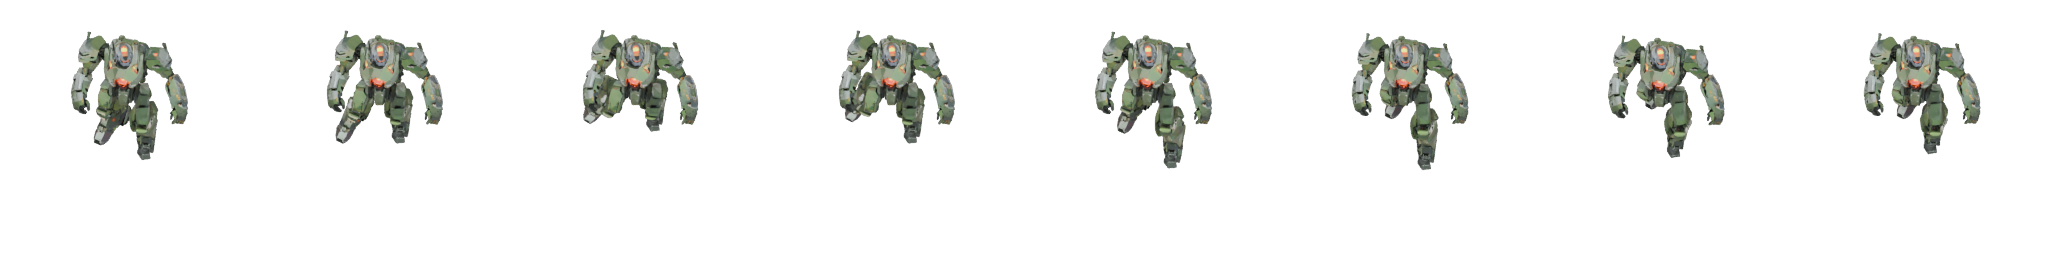
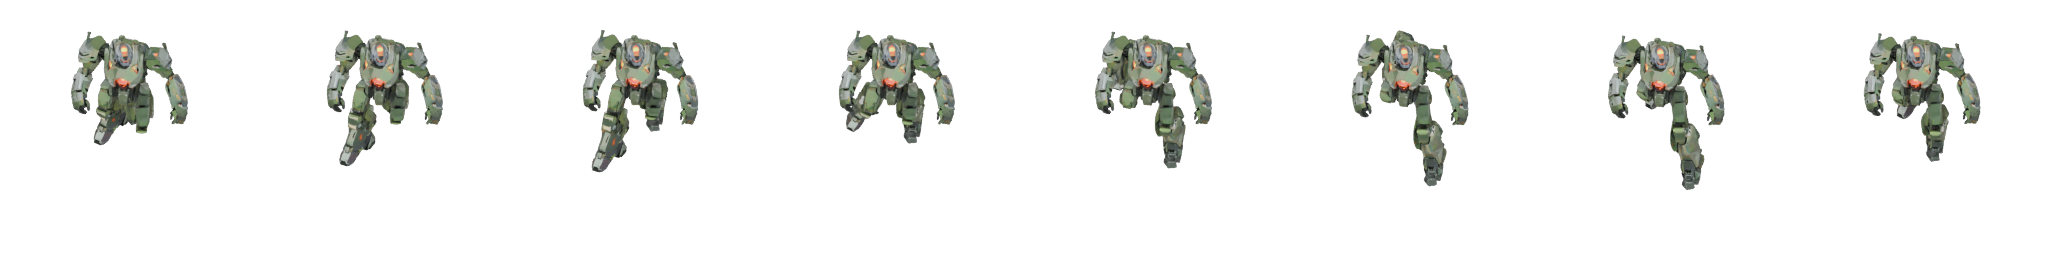
fix: genou de Titan dephase — le pied ne se levait jamais en avancant
Signale par le patron apres le premier correctif (hanche symetrique,
insuffisant) : « on a l'impression qu'il vole ». Cause reelle : la
flexion du genou (l_knee = -sin(p-0.25)) culminait au DECOLLAGE (hanche
au maximum arriere) et retombait a 0 (jambe raide) pendant TOUT le
balancement avant — or la cheville contre-tourne pour garder le pied a
plat, donc une jambe raide qui pivote seulement a la hanche garde son
pied a hauteur quasi constante : aucun appui visible, le pied glisse
plutot que de se lever puis se poser. D'ou l'impression de vol, meme
apres avoir corrige l'asymetrie du bind pose.

cos(p) culmine a p=0, exactement quand l_pitch (=sin(p)) passe par zero
EN AUGMENTANT — le milieu du balancement avant, pied a l'aplomb du
corps, moment ou il doit etre le plus haut. Meme correctif applique a
pose_run (meme defaut de phase). 8 planches walk+run re-bakees ; idle/
attack/hit/die/melee ne touchent pas le genou, non affectees.

diff --git a/tools/build_titan_anims.py b/tools/build_titan_anims.py
@@ -183,8 +183,19 @@ def pose_walk(arm, f, total_frames=8):
     l_pitch = math.radians(34) * math.sin(p)
     r_pitch = math.radians(34) * math.sin(p + math.pi)
 
-    l_knee = math.radians(58) * max(0.0, -math.sin(p - 0.25))
-    r_knee = math.radians(58) * max(0.0, -math.sin(p + math.pi - 0.25))
+    # 🚨 CORRECTIF PHASE GENOU (patron, 24/09 : « on a l'impression qu'il vole »). L'ancienne
+    # formule -sin(p-0.25) faisait culminer la flexion au DECOLLAGE (hanche au max arriere)
+    # et retombait a 0 (jambe raide) pendant tout le BALANCEMENT AVANT — or c'est justement
+    # pendant le balancement avant que le pied doit se soulever pour degager le sol ; une
+    # jambe raide qui pivote juste a la hanche en gardant le pied a hauteur constante (la
+    # cheville contre-tourne pour le garder a plat) glisse comme sur de la glace : aucun
+    # appui visible, d'ou l'impression de vol. cos(p) culmine a p=0, exactement quand
+    # l_pitch (=34*sin(p)) passe par 0 en augmentant — le milieu du balancement, pied a
+    # l'aplomb du corps, moment ou il doit etre le plus haut. Il retombe a 0 aux deux
+    # extremes (p=+-90°, ~pose jambe tendue a l'appui ET a la posee), et reste nul tout
+    # l'appui (p in [90°,270°]) : la jambe qui porte le poids ne plie pas.
+    l_knee = math.radians(58) * max(0.0, math.cos(p))
+    r_knee = math.radians(58) * max(0.0, -math.cos(p))
 
     l_ankle = -l_pitch * 0.6
     r_ankle = -r_pitch * 0.6
@@ -230,8 +241,10 @@ def pose_run(arm, f, total_frames=8):
     l_pitch = math.radians(44) * math.sin(p)
     r_pitch = math.radians(44) * math.sin(p + math.pi)
 
-    l_knee = math.radians(62) * max(0.0, -math.sin(p - 0.2))
-    r_knee = math.radians(62) * max(0.0, -math.sin(p + math.pi - 0.2))
+    # meme correctif de phase que pose_walk (voir son commentaire) : cos(p) culmine au milieu
+    # du balancement avant plutot qu'au decollage.
+    l_knee = math.radians(62) * max(0.0, math.cos(p))
+    r_knee = math.radians(62) * max(0.0, -math.cos(p))
 
     if "LeftUpLeg" in pb:
         pb["LeftUpLeg"].rotation_euler.x += l_pitch
